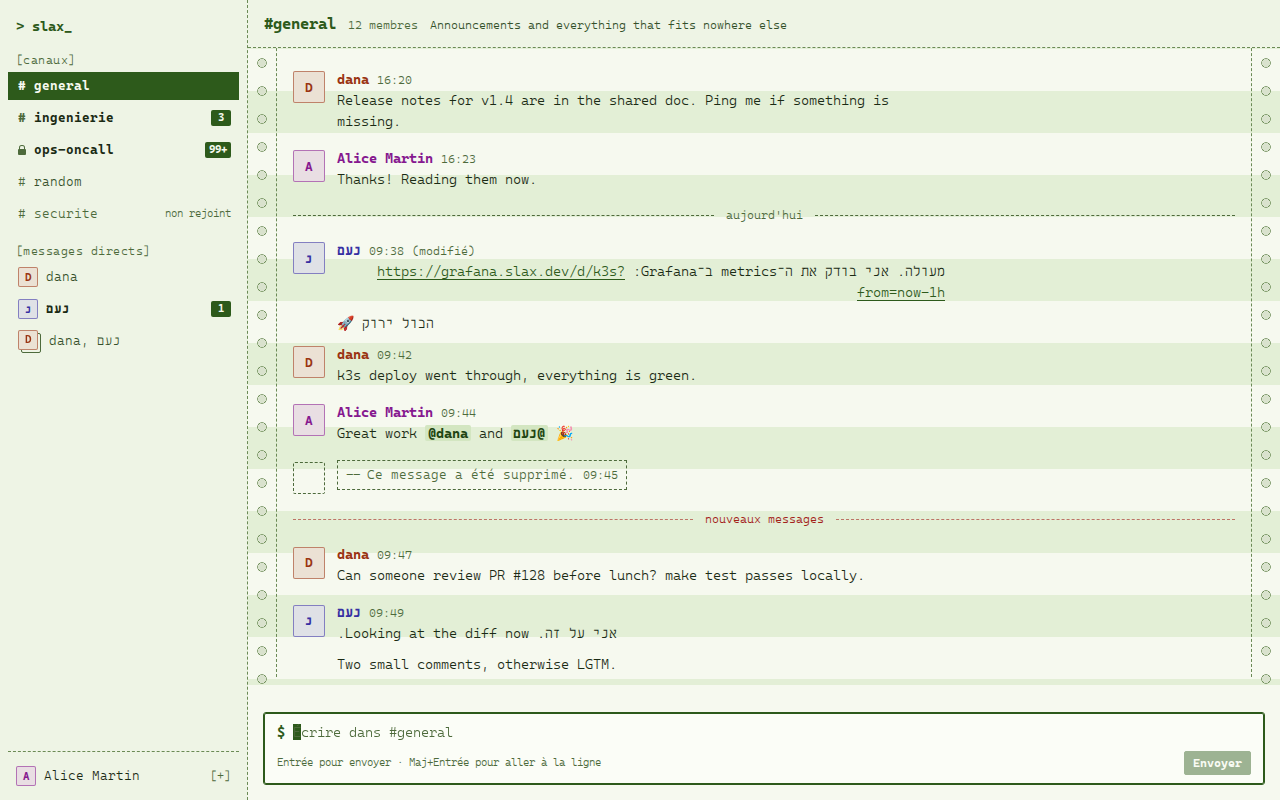
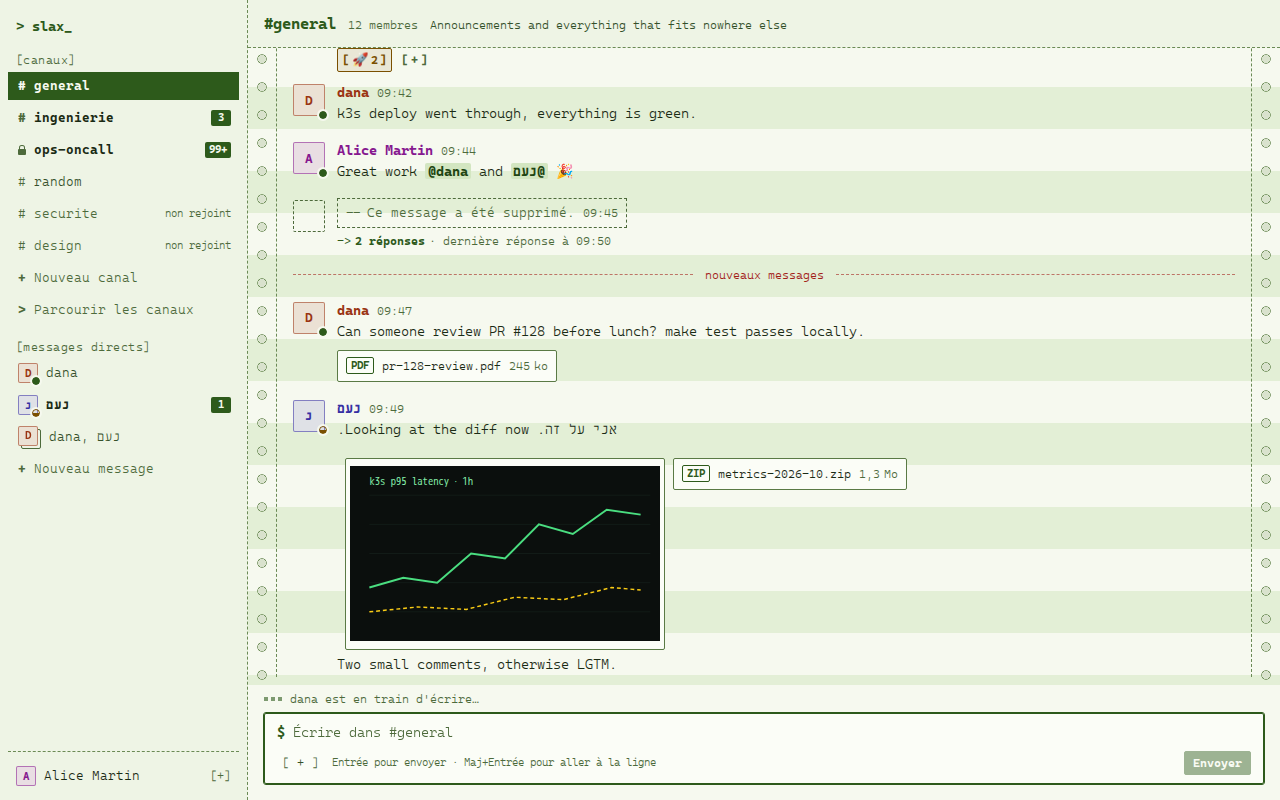
docs: chat screenshots on fixtures; topics clipped at their own end; 44px on phones
make screenshots now opens threads, the reaction picker, the message menu,
the editor, the delete confirmation, the new message, create, browse and
details dialogs, uploads and the drop zone, in console en/he, listing fr and
phones, and fails on any app control under 44px on a phone. Fixes seen on the
shots: a topic is clipped at its own end (an English topic in a Hebrew header
kept its end and lost its beginning), no second day rule under a thread's
parent, toasts no longer cover the composer, the touch layout of the message
menu stays in the app (the kitchen sink's demo toolbar was squeezed), dialog
descriptions get their padding back.

diff --git a/frontend/src/styles/chat.css b/frontend/src/styles/chat.css
@@ -28,11 +28,11 @@
 
   /* No hover on a touch screen: the "more" button stays, in its own column, 44px. */
   @media (hover: none) {
-    .message {
+    .message--menu {
       grid-template-columns: var(--avatar-size) minmax(0, 1fr) auto;
     }
 
-    .message__actions {
+    .message--menu .message__actions {
       position: static;
       align-self: start;
       padding: 0;
@@ -169,6 +169,12 @@
     .reaction {
       min-block-size: 2.75rem;
       padding-inline: var(--space-2);
+    }
+
+    /* The way into a thread on a phone: a full-height target, not a line of small text. */
+    .thread-link {
+      align-items: center;
+      min-block-size: 2.75rem;
     }
   }
 
@@ -376,7 +382,8 @@
     grid-template-columns: minmax(0, 1fr) min(26rem, 42%);
   }
 
-  .shell__main--thread > :not(.thread) {
+  .shell__main--thread > :not(.thread),
+  .shell__main--thread > .drop-zone > * {
     grid-column: 1;
   }
 
@@ -722,7 +729,8 @@
   }
 
   @media (pointer: coarse) {
-    .people-picker__option {
+    .people-picker__option,
+    .people-picker__input {
       min-block-size: 2.75rem;
     }
 
@@ -773,13 +781,12 @@
     white-space: nowrap;
   }
 
-  /* Its own direction, clipped at its own end, aligned with the interface. */
+  /* Aligned with the interface; the text itself is a .clip-own (app.css). */
   .browse__topic {
     overflow: hidden;
     color: var(--color-text-dim);
     font-size: var(--text-xs);
-    text-align: match-parent;
-    text-overflow: ellipsis;
+    text-align: start;
     white-space: nowrap;
   }
 

diff --git a/frontend/src/styles/app.css b/frontend/src/styles/app.css
@@ -319,17 +319,28 @@
     flex: none;
   }
 
-  /* dir="auto": a long topic is clipped at its own end (an English topic in a Hebrew header
-     keeps its beginning); match-parent: a short one still sits at the interface's start. */
   .channel-header__topic {
     flex: 1 1 0;
     min-inline-size: 0;
     overflow: hidden;
-    text-overflow: ellipsis;
     white-space: nowrap;
     color: var(--color-text-dim);
     font-size: var(--text-xs);
-    text-align: match-parent;
+    text-align: start;
+  }
+
+  /*
+   * One line of user text in its own direction (dir="auto"), placed at the interface's start
+   * by its parent, and clipped with an ellipsis at its own end: an English topic in a Hebrew
+   * header keeps its beginning (a clip done by the parent would cut it at the RTL end).
+   */
+  .clip-own {
+    display: inline-block;
+    max-inline-size: 100%;
+    overflow: hidden;
+    text-overflow: ellipsis;
+    white-space: nowrap;
+    vertical-align: bottom;
   }
 
   /* ── Message pane ────────────────────────────────────── */

diff --git a/frontend/src/components/ChannelView.tsx b/frontend/src/components/ChannelView.tsx
@@ -104,9 +104,11 @@ export function ChannelView({ channel, threadId, threadModal, navOpen, onToggleN
             {plural('channel.members', channel.member_count)}
           </button>
           {channel.topic && (
-            // Its own direction (clipped at its own end), aligned with the interface (see app.css).
-            <span class="channel-header__topic" dir="auto" title={channel.topic}>
-              {channel.topic}
+            // Aligned with the interface; the text takes its own direction and is clipped at its own end (app.css).
+            <span class="channel-header__topic" title={channel.topic}>
+              <span class="clip-own" dir="auto">
+                {channel.topic}
+              </span>
             </span>
           )}
         </div>

diff --git a/frontend/src/components/BrowseChannelsDialog.tsx b/frontend/src/components/BrowseChannelsDialog.tsx
@@ -62,8 +62,10 @@ export function BrowseChannelsDialog({ onClose }: { onClose: () => void }) {
                 </a>
                 <span class="browse__meta">{plural('channel.members', channel.member_count)}</span>
                 {channel.topic && (
-                  <span class="browse__topic" dir="auto" title={channel.topic}>
-                    {channel.topic}
+                  <span class="browse__topic" title={channel.topic}>
+                    <span class="clip-own" dir="auto">
+                      {channel.topic}
+                    </span>
                   </span>
                 )}
               </div>

diff --git a/frontend/src/components/MessageItem.tsx b/frontend/src/components/MessageItem.tsx
@@ -153,7 +153,8 @@ function LiveItem({ message, compact, place, threadLink }: { message: LiveMessag
         edited={message.edited_at !== null}
         compact={compact}
         presence={presence}
-        class={actionsOpen || editing ? 'message--actions-open' : undefined}
+        // message--menu: on touch screens its "more" button gets a column of its own (chat.css).
+        class={actionsOpen || editing ? 'message--menu message--actions-open' : actions ? 'message--menu' : undefined}
         editor={
           editing ? (
             <MessageEditor

diff --git a/docs/design-system.md b/docs/design-system.md
@@ -7,6 +7,8 @@ The look of an old monitor, built with modern CSS. Two themes, three languages (
   - **It checks before it saves.** All 12 combinations (2 themes × 3 languages × 1280/390px) are loaded and checked.
   - **It fails on:** any sideways page scroll, a clipped input or composer placeholder (text measured against the field's content box), console errors, and failed requests.
   - **The application too:** `app-preview.html` (same build, never in production) runs the real app on fixtures: a stand-in `fetch` and a silent realtime client (`src/design-system/app-fixtures.ts`). Its shots go to `docs/design/app/`: the sign-in screen and the workspace in 2 themes × 3 languages at 1280×800, the account menu, a sign-in error, and 390px phones (conversation, open channel drawer, sign-in) in `console`/French and `listing`/Hebrew. The same checks apply.
+  - **Chat interactions** (`{name}-console-{en,he}.png`, most of them in `listing-fr` too): `thread`, `thread-deleted-parent`, `reaction-picker`, `message-menu`, `edit`, `delete-confirm`, `new-message`, `create-channel` (with a name error), `browse-channels`, `channel-details`, `files-upload` (done, 45 %, refused) and `files-drop`. Typing ("dana is typing…") and presence dots show on every app shot. Phones: `mobile-thread`, `mobile-menu` and `mobile-new-message` in `console-fr` and `listing-he`. The other combinations are loaded and checked with a thread and a dialog open.
+  - **On phones it also fails on** any control of the app under 44px tall.
 - **Code:** tokens and styles are in `frontend/src/styles/`, reusable components in `frontend/src/components/ui/`, i18n in `frontend/src/i18n/`, and the theme logic in `frontend/src/theme.ts`.
 
 > Status: first version, submitted for yechpa's review before Task 9. The Hebrew strings in particular are a proposal, not final.
@@ -163,6 +165,7 @@ Every interactive element shows `:focus-visible` as a 2px solid `--color-focus` 
 - **Interpolated values are isolated too.** `t()` wraps them in FSI/PDI (U+2068/U+2069), the plain-text `<bdi>`. That keeps `"נעם is typing…"` or `"dana מקליד/ה…"` in order even in a `title` or `aria-label`.
 - **Directional glyphs:** `>`, `->`, `[ ]` and `( )` are Unicode *Bidi_Mirrored* characters. Write them once, in logical order, and the browser draws the mirror in RTL: `> slax_` becomes `slax_ <` and `-> 3 replies` becomes `3 תשובות <-`. Never swap them by hand, or they flip twice. Use a `:dir(rtl)` rule only for glyphs that are not mirrored, such as arrows like `→`. None are used yet.
 - **The composer's textarea** follows the page direction while empty, so the caret and the drawn placeholder start on the same side. Once text is typed, it is `dir="auto"`.
+- **One line of user text clipped with an ellipsis** (a channel topic in the header or in "Browse channels") is a `.clip-own` span with `dir="auto"` inside a box that follows the interface. The box places it at the interface's start; the span clips it at *its own* end. Clipping in the box itself would cut an English topic's beginning in a Hebrew header (the RTL line ends on the left).
 
 ## i18n
 
@@ -196,5 +199,16 @@ All components are presentational Preact components, one job each, for Task 9 to
 - `Toast`: errors use `role=alert`, others `role=status`
 - `Composer`: IME-safe Enter, optional `maxLength` with a counter in the last 200 characters (code points, like the server), `+` only when `onAttach` is given
 - `EmptyState`
+- `Dialog`: a native `<dialog>` opened with `showModal()` (the page behind is inert, nothing clips it), title and close button, optional description, body (a `<form>` when it has `onSubmit`) and footer; Escape closes it and focus returns to what had it; `role="alertdialog"` for confirmations
+- `Popover`: a fixed panel placed against its anchor (under it, aligned with its inline end, or above when there is no room), kept inside the window; Escape (focus back to the anchor), a click elsewhere, a scroll or a resize close it. Its position goes through two custom properties set from script, so the CSP needs no `unsafe-inline`
+- `EmojiPicker`: 40 common emoji in their emoji-presentation form (`❤`, not `❤`), one Tab stop, arrow keys (Left/Right follow the reading direction), Home/End
+- `FileChip` (extended): `uploading` with a progress bar, `scanning`, `error` (with the reason, retry), a link to the file (`href`), remove or cancel
+- `ReactionChip` (extended): `disabled` for readers who are not members
+- `Avatar` and `PresenceDot` (extended): `presenceHidden` keeps a dot decorative where it would be repeated on every row (message authors)
+- `Message` (extended): `attachments` under the body, `editor` in place of the body, `presence` on the avatar; `Tombstone`: a `footer` (a deleted parent keeps its thread link)
+
+The chat's own pieces (`frontend/src/components/`): `MessageActions` (toolbar and menu), `Reactions`, `MessageEditor`, `Attachments`, `ChatComposer` (drafts, uploads, paste, typing), `DropZone`, `ThreadPanel`, `PeoplePicker` (a combobox over the people search), `NewMessageDialog`, `CreateChannelDialog`, `BrowseChannelsDialog`, `ChannelDetails`, `Typing`. Their styles are in `styles/chat.css`.
+
+**Touch screens** (`hover: none`): no action depends on hovering. The quick buttons of the message toolbar (react, reply) are hidden there, and the "more" button, which opens every action, stays visible in a column of its own. On coarse pointers every control of the app is at least 44px tall; `make screenshots` checks it on the 390px shots.
 
 Layout classes: `.shell` collapses below 44rem *of its own width* (a container query): the sidebar becomes an overlay opened from the channel header.

diff --git a/docs/known-limitations.md b/docs/known-limitations.md
@@ -43,3 +43,24 @@ receives the channel's events until it disconnects.
 - Authorization for `channel.{id}.{epoch}` requires current membership *and* the current epoch.
 - An alternative with the same shape is end-to-end encrypted channels (`private-encrypted-`) with a per-epoch
   shared secret.
+
+## Chat client: what is polled rather than pushed
+
+**Where:** `frontend/src/components/Workspace.tsx`, `frontend/src/store/threads.ts`, `frontend/src/store/presence.ts`.
+
+- **New conversations and invitations.** Nothing is pushed to a user who is added to a private room or a new
+  conversation (there is no per-user event channel yet), so the client refetches `GET /channels` every minute and
+  when the tab comes back after 15 s away. A conversation started by someone else therefore shows up within a
+  minute, and its messages from then on are live. *Intended fix:* a `user.{id}` private channel with
+  `channel.added`, which the "rekey" channel above would also need.
+- **Thread summaries.** The server does not push a parent's `reply_count`/`last_reply_at` when a reply comes or
+  goes; the client recomputes them from the replies' own events (each reply counted once). Two gaps remain until
+  the next refresh of the channel: deleting the *latest* reply of a thread that is not open keeps the old "last
+  reply" time (the previous reply's time is not known), and a reply event that arrives while the channel's page
+  is loading, in the same second as the page's own last reply, is assumed to be counted by the page.
+- **Presence** is polled every 30 s for the people on screen; the workspace presence channel only says who
+  connected or disconnected (shown at once). Going idle, or coming back, shows for others at their next poll.
+- **Reactions beyond the 50 listed reactors.** A broadcast lists the first 50 reactors only, so for a reaction
+  with more, whether I am one of them is kept from what the client knew (a REST answer, or my own toggle), never
+  guessed from the broadcast.
+
